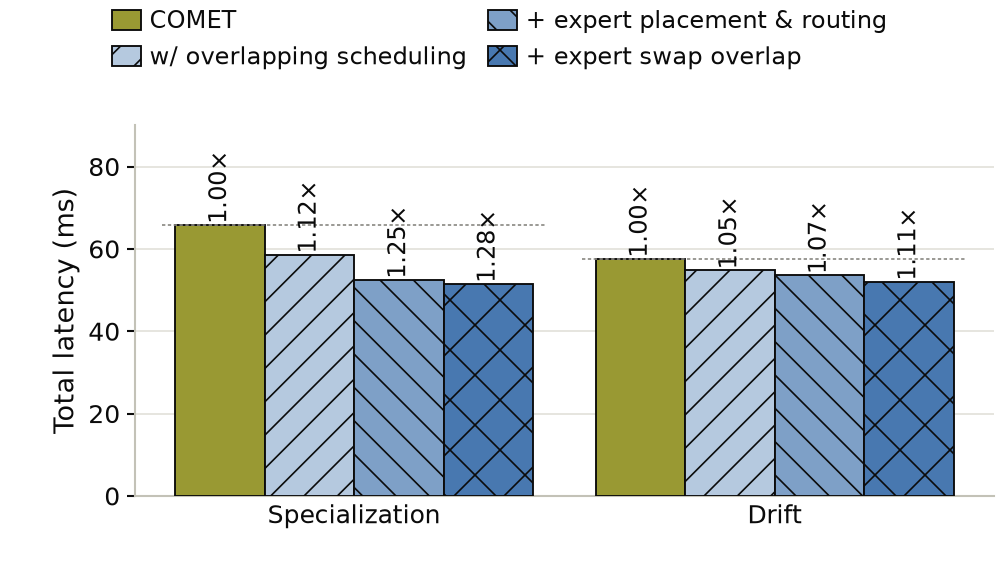
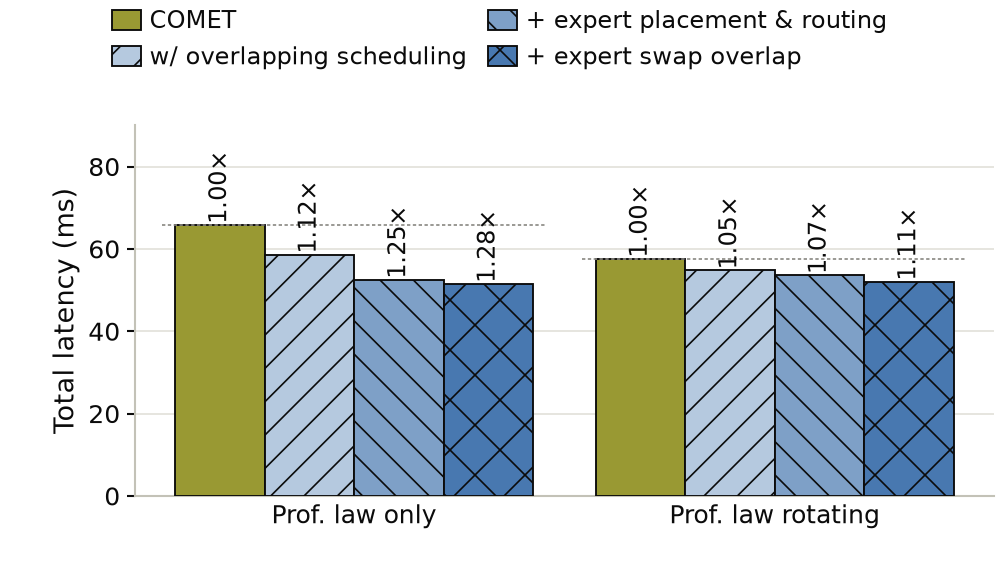
figs/ablation_cycling: group labels name the traffic only (Prof. law only / Prof. law rotating)
User ruling 2026-09-15: the two groups are labelled by the served traffic, and
the placement basis goes in the caption and the text instead of an invented
scenario name. Replaces "Specialization" / "Drift" (REV 0.4), which in turn had
replaced "Predictable load" / "Shifting load".

For the caption: group A serves professional law only on the 8-topic basis that
includes it; group B rotates all 8 topics every 4 iterations, professional law
among them, on the 7-topic leave-one-out basis that omits it, with the
placement carried over.

Changed region(s): [[0.6517, 0.8649, 0.8999, 0.9246], [0.2482, 0.8649, 0.4344, 0.9246]]

diff --git a/figs/ablation_cycling/make_figure.py b/figs/ablation_cycling/make_figure.py
@@ -41,8 +41,13 @@ KNOBS = dict(
     INCLUDE_SEQ=False,                            # insert the sequential-swap twin before the last bar
     SEQ_TEXT="+ expert swap, un-overlapped",
     GROUPS=[                                      # (group label, figure_src panel prefix, topic, statistic)
-        ("Specialization", "A:", "proLaw", "mean over 16 timed iters"),
-        ("Drift", "B:", "ALL", "whole-schedule mean, mean over reps"),
+        # 2026-09-15 (user ruling): the group labels name the TRAFFIC only —
+        # the placement basis belongs in the caption and the text. A: only
+        # professional law is served, and the 8-topic basis includes it.
+        # B: the 8 topics rotate every 4 iterations (professional law among
+        # them) on the 7-topic LOO basis that omits it, placement carried over.
+        ("Prof. law only", "A:", "proLaw", "mean over 16 timed iters"),
+        ("Prof. law rotating", "B:", "ALL", "whole-schedule mean, mean over reps"),
     ],
     ARM_ROWS={                                    # tidy_arm names in figure_src.csv, per panel prefix
         "COMET": {"A:": "COMET", "B:": "COMET"},

diff --git a/figs/ablation_cycling/SPEC.md b/figs/ablation_cycling/SPEC.md
@@ -188,7 +188,10 @@ text. Optimization names must match the legend verbatim.
   (§7) switched to the user's summary style: components + setup only,
   scenario definitions live in the text; terms match the legend verbatim.
 - **REV 0.4 (2026-09-13)** — scenario rename (user + postdoc ruling):
-  group labels `Predictable load` / `Shifting load` → `Specialization` /
+  group labels (2026-09-15, user) `Prof. law only` / `Prof. law rotating`
+  — the labels name the served traffic only and the placement basis moves to
+  the caption and the text. They replace, from REV 0.4,
+  `Predictable load` / `Shifting load` → `Specialization` /
   `Drift`. Specialization: demand concentrates on one known request class
   while placement reflects a broader historical mixture (imbalance stays
   possible despite prior exposure). Drift: demand changes across classes
